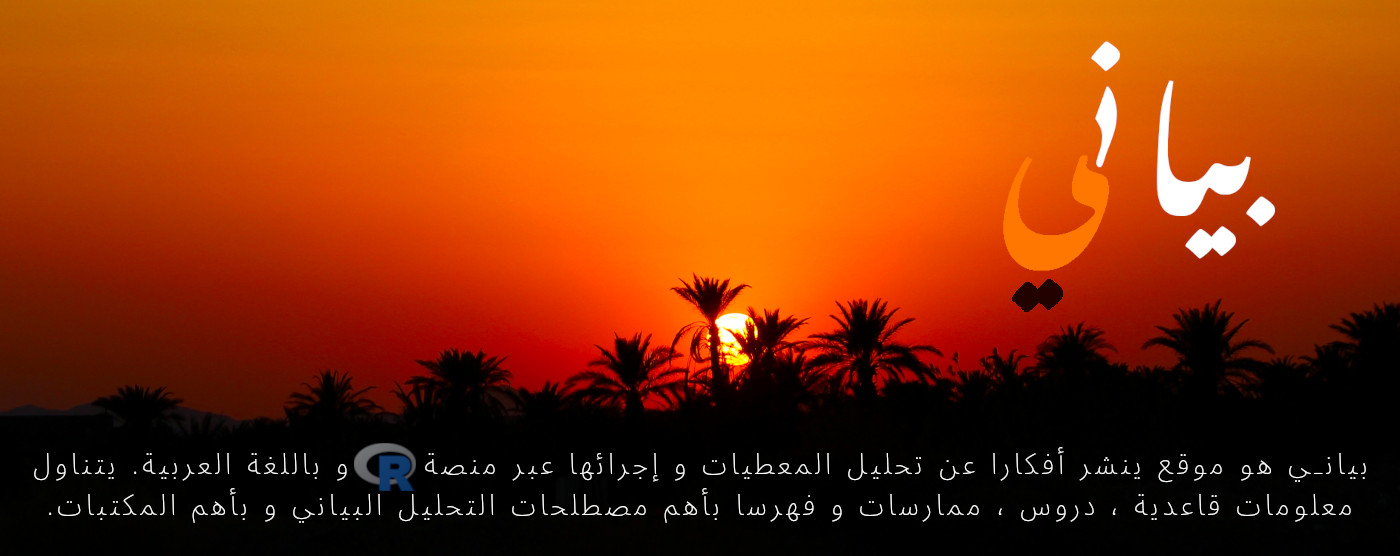
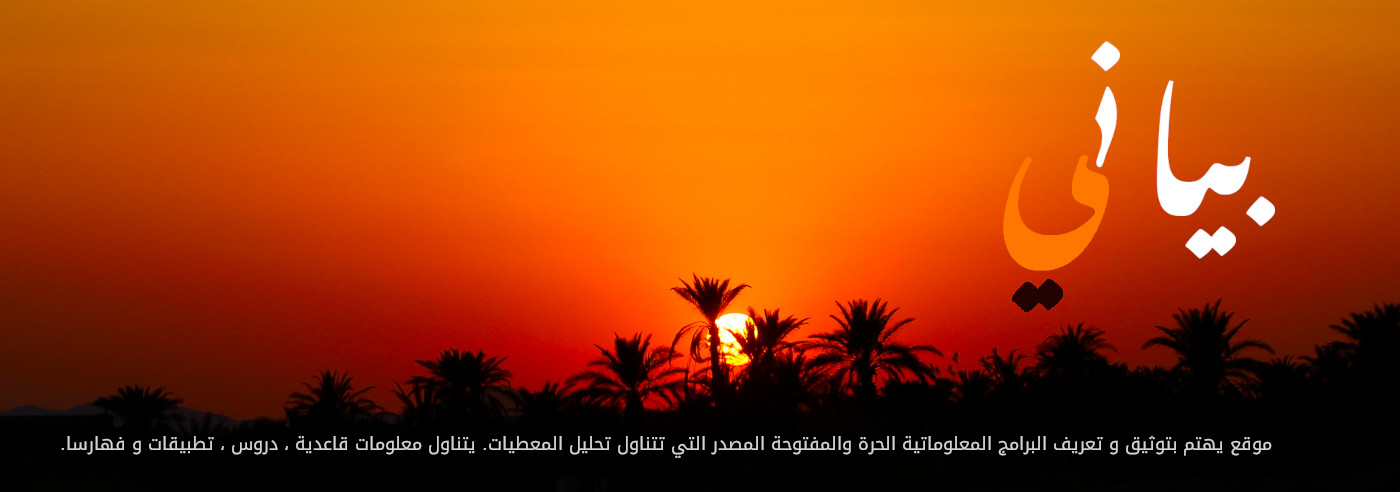
ِadd an image to introduction post

Changed region(s): [[0.0, 0.061, 1.0, 0.9451], [0.8293, 0.1524, 0.86, 0.2134]]

diff --git a/_posts/2024-08-20-project Bayany.md b/_posts/2024-08-20-project Bayany.md
@@ -5,7 +5,8 @@ description: رحبًا بكم في **بياني**، مشروع يهدف إلى 
 img: <img src="https://raw.githubusercontent.com/yOOs-dz/bayanyblog/main/images/logo_Rtips.png" width='100' height= auto/>
 ---
 
-![بياني](/images/banner_v1.jpg "مشروع بياني")
+![بياني](https://raw.githubusercontent.com/yOOs-dz/Rtips/main/images/banner_v1.jpg/ "مشروع بياني")
+![بياني]({{ site.baseurl }}/images/banner_v1.jpg مشروع بياني")
 
 
 مرحبًا بكم في **بياني**، مشروع يهدف إلى توثيق وتعريف البرامج المعلوماتية الحرة والمفتوحة المصدر التي تختص بتحليل المعطيات. يهدف هذا الموقع إلى توفير منصة شاملة تجمع بين المعلومات الأساسية، والدروس التوضيحية، والتطبيقات العملية، والفهارس المتخصصة في مجال تحليل البيانات.
